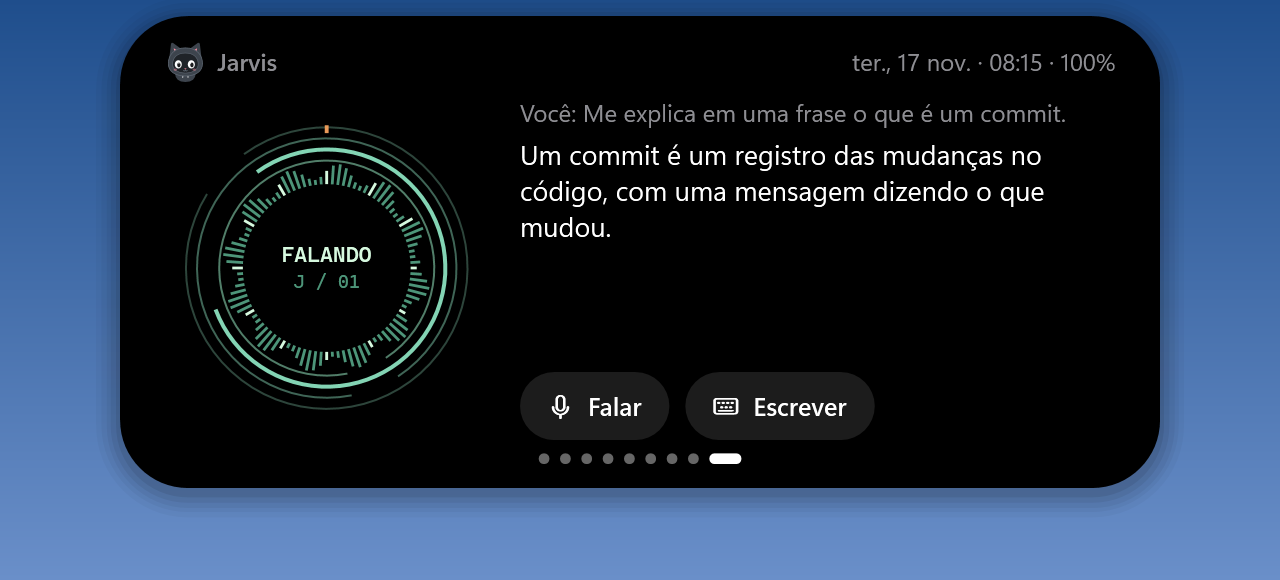
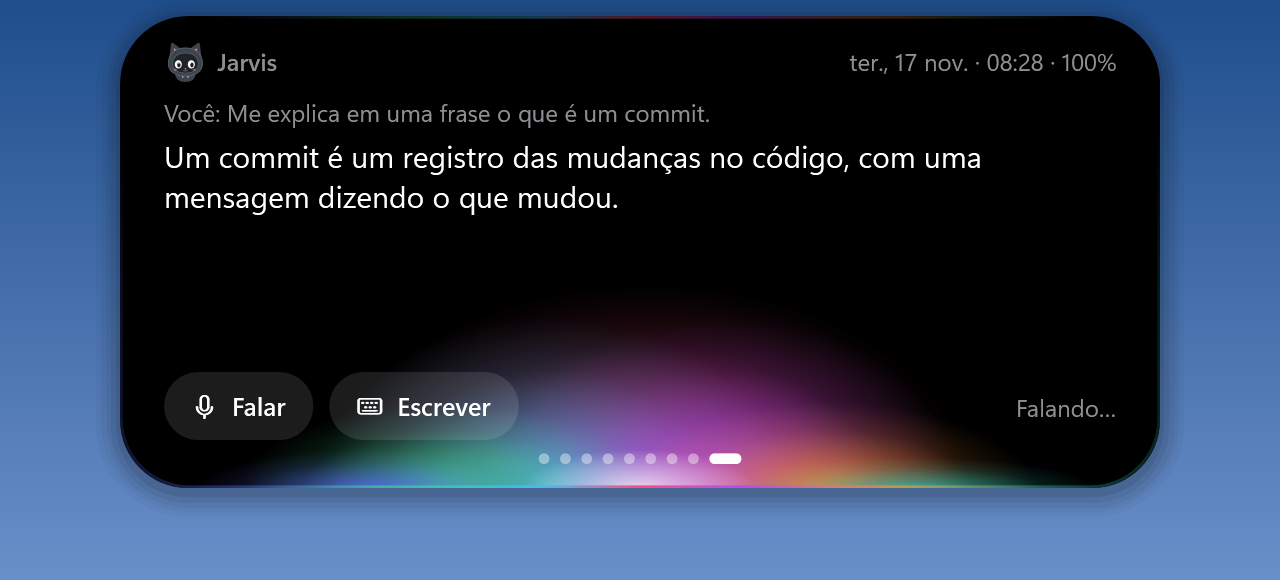
v1.8.2: brilho de voz do QuickVoice no Jarvis

diff --git a/README.md b/README.md
@@ -39,7 +39,7 @@ Site: **[theuslpszbr15.github.io/dynamic-island-windows](https://theuslpszbr15.g
 | **Letra sincronizada** — a linha que está sendo cantada aparece na ilha (letras do [LRCLIB](https://lrclib.net), guardadas no PC). Precisa de um player que informe a posição da música, como o app do Spotify. | <img src="docs/img/31-compact-lyrics.png" width="380"> |
 | **Volume** — barra ao mudar o volume (role o mouse sobre ela para ajustar). | <img src="docs/img/04-volume.png" width="380"> |
 | **Agentes de IA** — azul trabalhando, laranja precisa de você, verde concluído. | <img src="docs/img/09-agent-alert.png" width="380"> |
-| **Jarvis** — o assistente [JARVIS](https://github.com/theuslpszbr15/JARVIS) dentro da ilha: aperte **Ctrl+Alt+J** e a ilha abre na página dele, com o núcleo animado do JARVIS (laranja ouvindo, dançando ao pensar e falar); segure para falar ou toque para escrever. Também abre programas ("abre a calculadora") e pesquisa no Google. IA (Qwen 2.5 1.5B), voz (Piper) e microfone (whisper.cpp) rodam neste PC; baixe em *Configurações → Jarvis* (cada arquivo conferido por SHA-256). | <img src="docs/img/46-jarvis-page.png" width="380"> |
+| **Jarvis** — o assistente [JARVIS](https://github.com/theuslpszbr15/JARVIS) dentro da ilha: aperte **Ctrl+Alt+J** e a ilha abre na página dele, com o brilho de voz do QuickVoice (as cores sobem da borda seguindo a sua voz e a do Jarvis, e varrem a ilha enquanto ele pensa); segure para falar ou toque para escrever. Também abre programas ("abre a calculadora") e pesquisa no Google. IA (Qwen 2.5 1.5B), voz (Piper) e microfone (whisper.cpp) rodam neste PC; baixe em *Configurações → Jarvis* (cada arquivo conferido por SHA-256). | <img src="docs/img/46-jarvis-page.png" width="380"> |
 | **Sistema** — CPU, memória, disco, bateria, **brilho da tela** (arraste a barra) e bateria dos fones/mouses **Bluetooth** (avisa quando está acabando). | <img src="docs/img/32-system-brightness-bt.png" width="380"> |
 | **Agenda** — calendário do mês e o clima de agora na sua cidade (wttr.in). | <img src="docs/img/33-calendar-weather.png" width="380"> |
 | **Reunião em 5 min** — com o link secreto iCal do Google Agenda ou do Outlook (ou o Outlook clássico aberto no PC), a ilha avisa 10, 5 e 1 minuto antes de cada reunião, com o botão **Entrar** (Teams, Meet, Zoom, Webex), e mostra as próximas na página Agenda. Reuniões que se repetem entram certinho. | |
